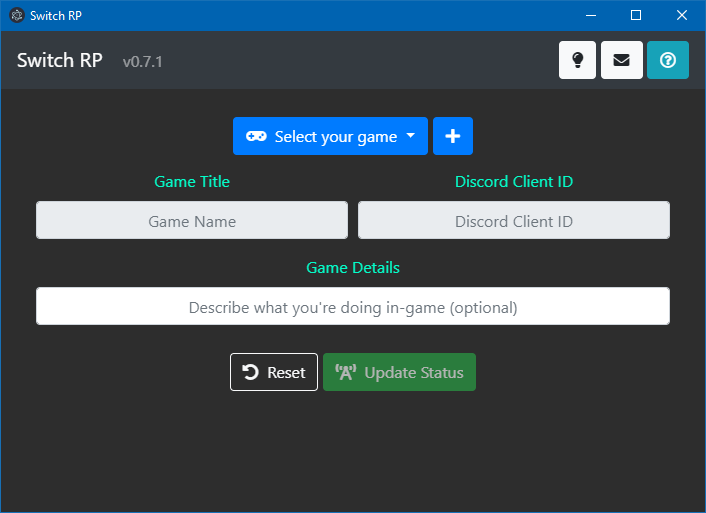
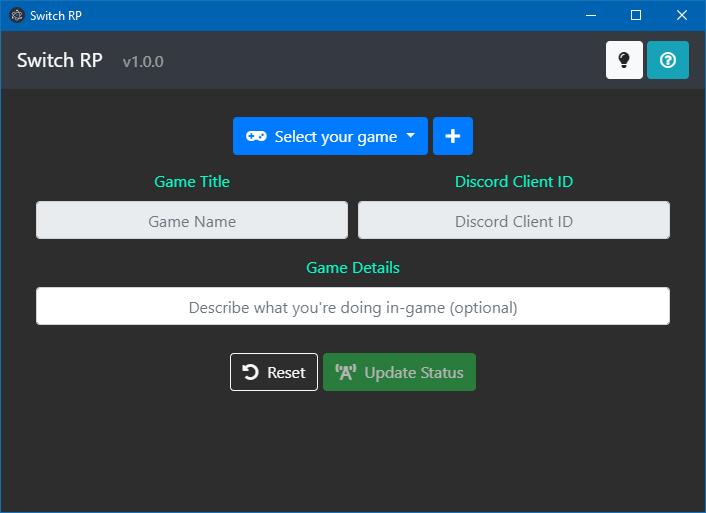
Updated Readme for v1.0.0

Changed region(s): [[0.779, 0.0624, 0.9037, 0.1559], [0.187, 0.0936, 0.2493, 0.1248]]

diff --git a/README.md b/README.md
@@ -5,7 +5,7 @@ Switch RP (Rich Presence) is an electron application for that allows users to up
 
 ![Switch RP main screen](./docs/readme/img/mainScreen.PNG)
 <br>
-_Image of the main screen as of v0.7.1_
+_Image of the main screen as of v1.0.0_
 
 ## Prerequisites
 This application requires the desktop version of Discord. If you don't already have it installed, you can download a fresh copy from [Discord](https://discordapp.com/download).
@@ -32,17 +32,19 @@ Note that this executable is not digitally signed. Depending on your computer's 
 ## Using the Application
 Ensure that Discord is open in the background prior to opening the application.
 
-For more information, please refer to the (Wiki)[#] (Wiki placeholder -- it'll be set up soon)!
+For more information, please refer to the [Wiki](https://github.com/alairon/SwitchRP/wiki).
 
 ## Development Information
-As of v0.7.1, this application used the following configuration:
+As of v1.0.0, this application used the following configuration:
 * `Node.js v11.2.0`
 * `npm v6.4.1`
-* `Electron: 4.0.1`
+* `Electron: 4.0.3`
 
 ## Limitations
 ### Application
 After adding a custom entry, the program does not immediately add the entry to the list. Restarting the application should resolve this issue.
+
+Links appearing inside the application such as "Discord Developer Portal" are currently disabled as they open inside the main window instead of your browser of choice.
 
 ### Discord
 A limitation from Discord only allows users to update their status once every 15 seconds. Your status may not be updated immediately after pressing the "Update Status" and "Disconnect" buttons.
